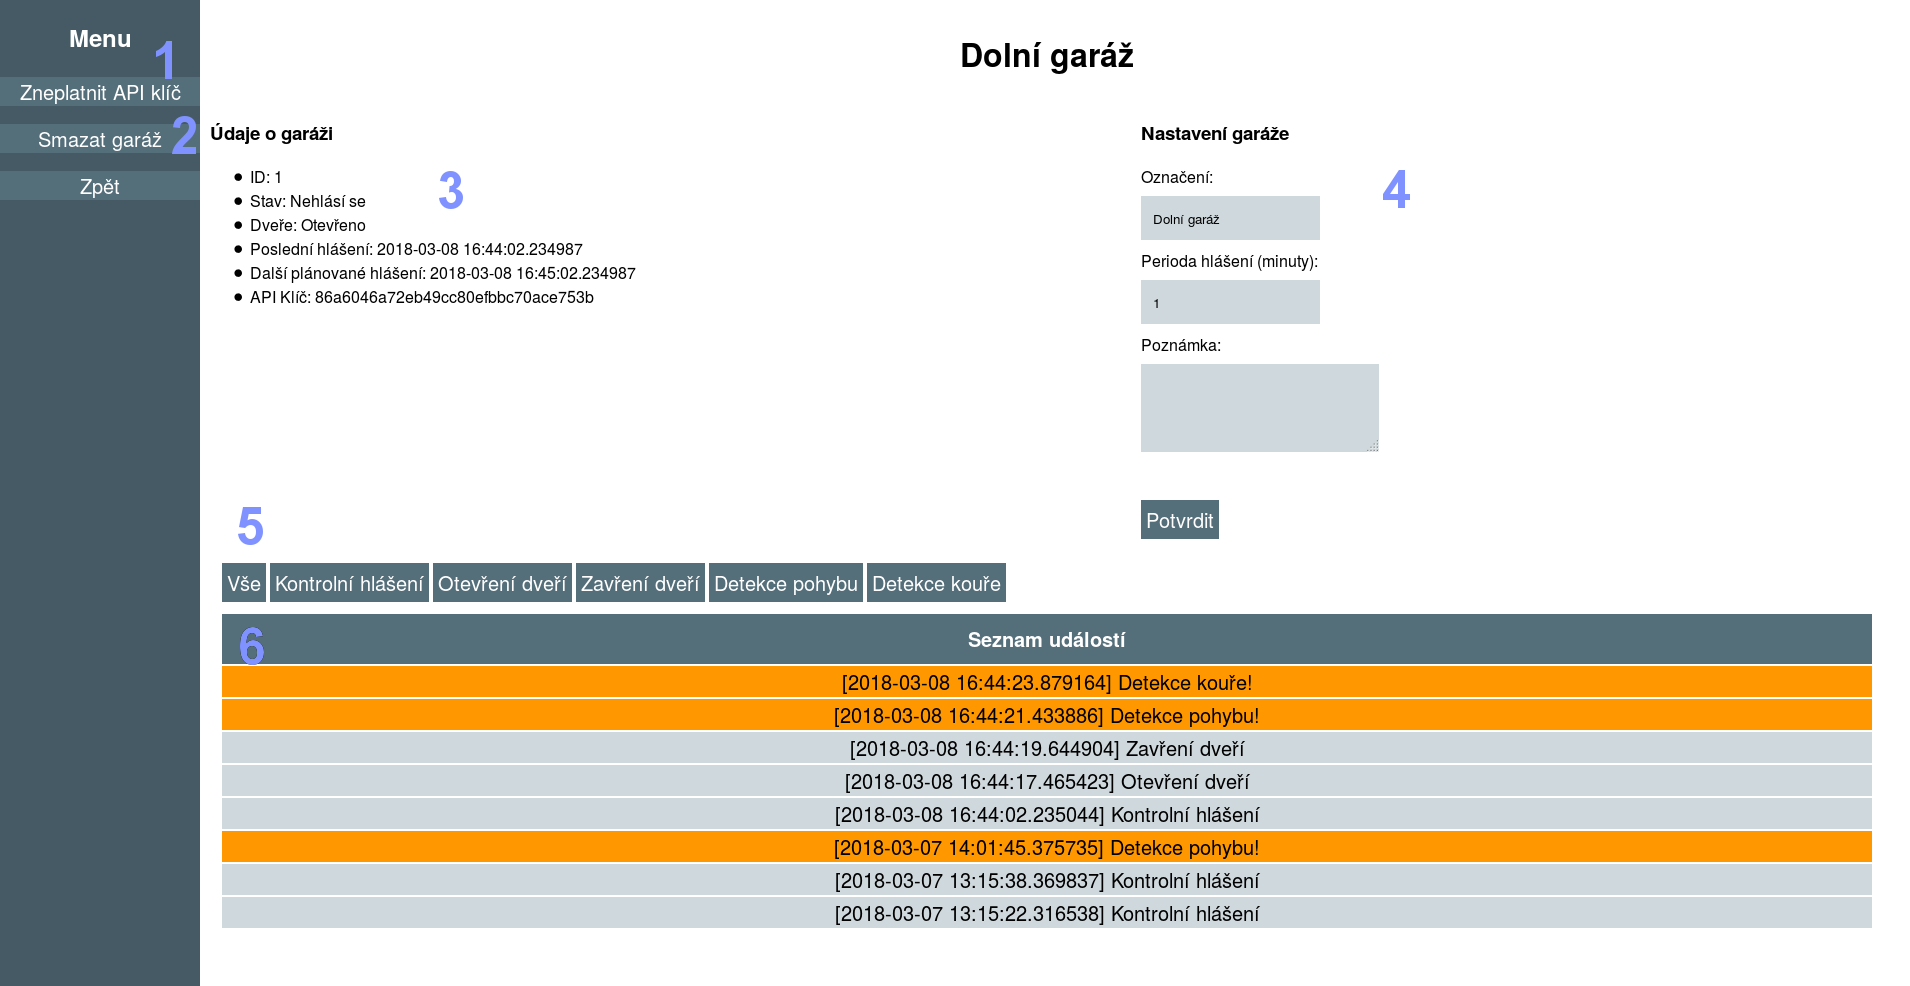
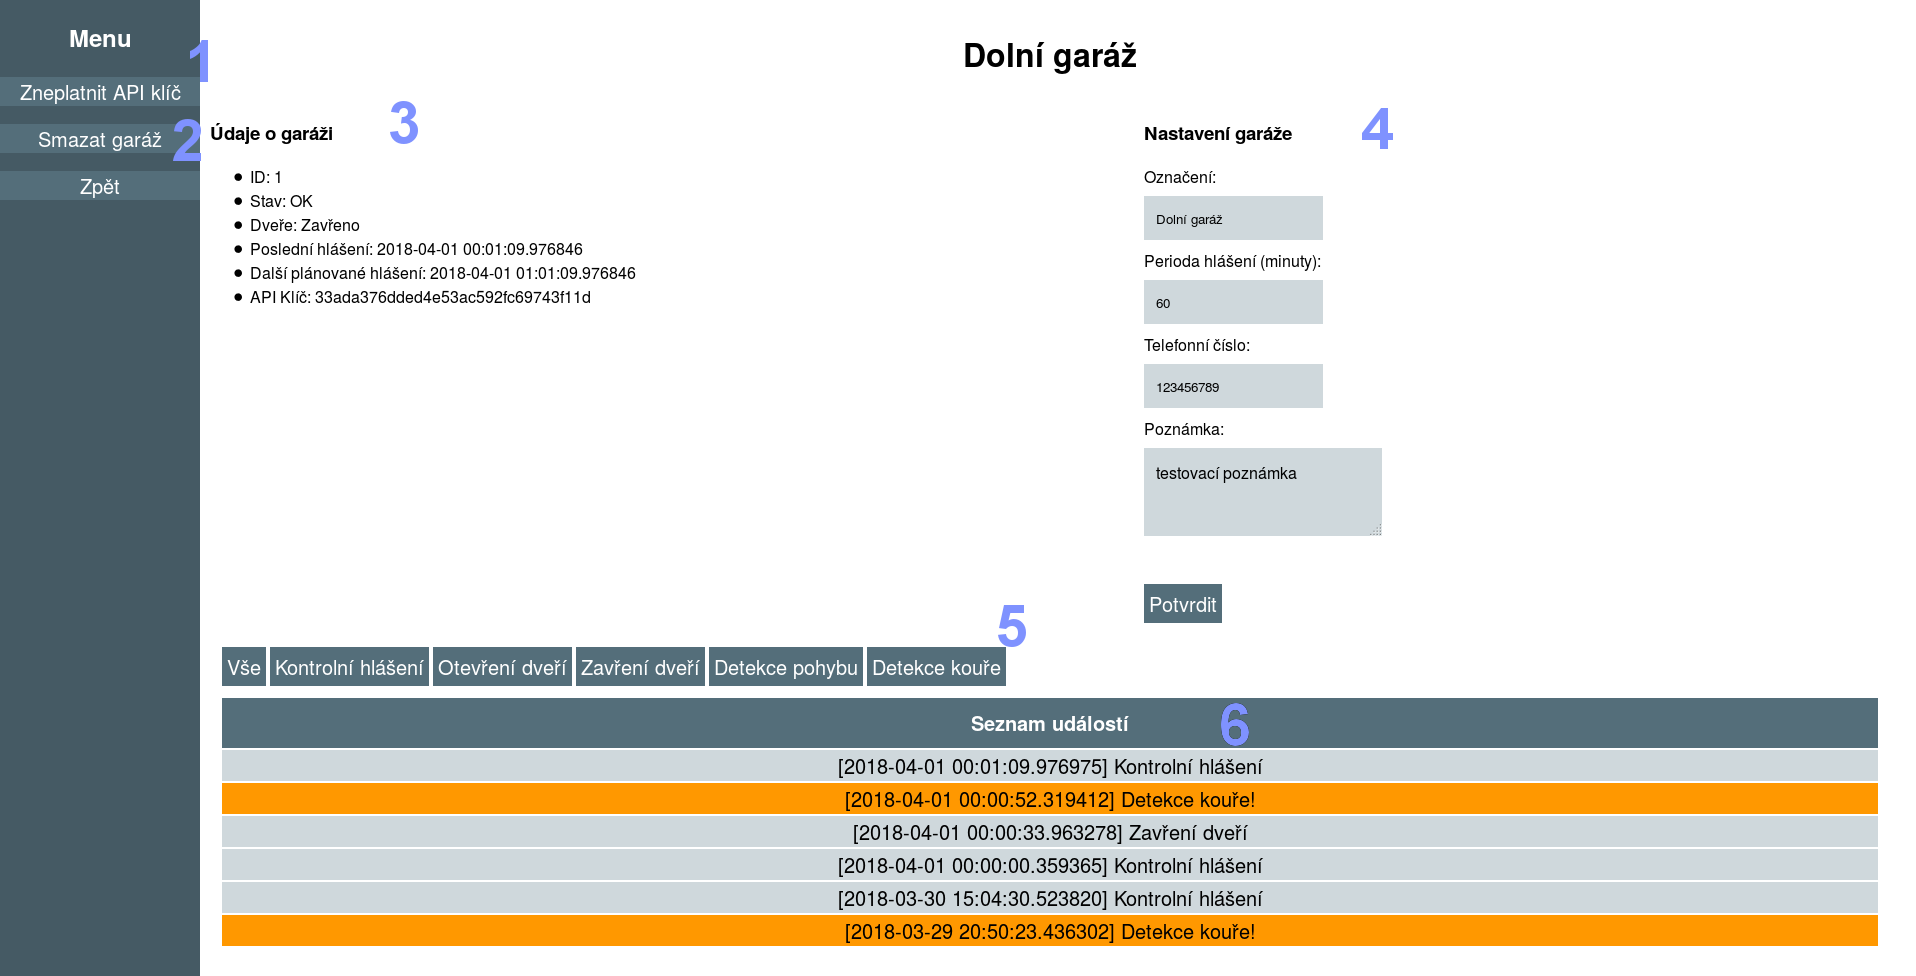
mention phone number in garage view

diff --git a/chapters/prirucka.tex b/chapters/prirucka.tex
@@ -8,7 +8,7 @@ Přihlášení do webového rozhraní je prováděno pomocí hesla. Přihlašova
 \begin{figure}[h!]
     \centering
     \includegraphics[width=0.5\textwidth]{images/login.png}
-    \caption[Přihlašovací formulář webového rozhraní]{Přihlašovací formulář webového rozhraní}
+    \caption[Přihlašovací formulář webového rozhraní]{Přihlašovací formulář webového rozhraní.}
     \label{fig:login}
 \end{figure}
 
@@ -19,7 +19,7 @@ Pro první přihlášení je možné použít implicitní heslo \textit{password
 \begin{figure}[h!]
     \centering
     \includegraphics[width=0.5\textwidth]{images/pwd_change.png}
-    \caption[Výzva ke změně hesla]{Výzva ke změně hesla}
+    \caption[Výzva ke změně hesla]{Výzva ke změně hesla.}
     \label{fig:password_change}
 \end{figure}
 
@@ -30,7 +30,7 @@ Pro první přihlášení je možné použít implicitní heslo \textit{password
 \begin{figure}[h!]
     \centering
     \includegraphics[width=\textwidth]{images/mainpage.png}
-    \caption[Hlavní stránka aplikace]{Hlavní stránka aplikace}
+    \caption[Hlavní stránka aplikace]{Hlavní stránka aplikace.}
     \label{fig:mainpage}
 \end{figure}
 
@@ -65,7 +65,7 @@ Po úspěšném přihlášení ze zobrazí hlavní stránka webového rozhraní.
 \begin{figure}[h!]
     \centering
     \includegraphics[width=\textwidth]{images/garage_page.png}
-    \caption[Stránka garáže]{Stránka garáže}
+    \caption[Stránka garáže]{Stránka garáže.}
     \label{fig:garage_page}
 \end{figure}
 
@@ -79,6 +79,7 @@ Na obrázku \ref{fig:garage_page} je zobrazena stránka konkrétní garáže. Zd
     \begin{itemize}
         \item \textbf{Označení} -- uživatelem zvolené označení, které se zobrazí na hlavní stránce.
         \item \textbf{Perioda hlášení} -- perioda kontrolních hlášení podřízeného systému (v minutách).
+        \item \textbf{Telefonní číslo} -- telefonní číslo nájemce garáže. V~případě vyplnění budou upozornění týkající se garáže zasílána i nájemci. Telefonní číslo je třeba vyplnit včetně předvolby (+420 pro Českou republiku).
         \item \textbf{Poznámka} -- volitelná poznánka ke garáži (max 256 znaků).
     \end{itemize}
     \item \textbf{Filtry událostí} -- možnost filtrovat zobrazené události podle typu.
